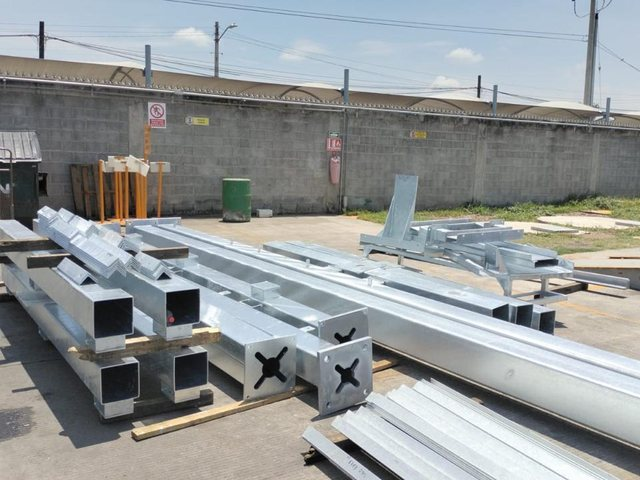
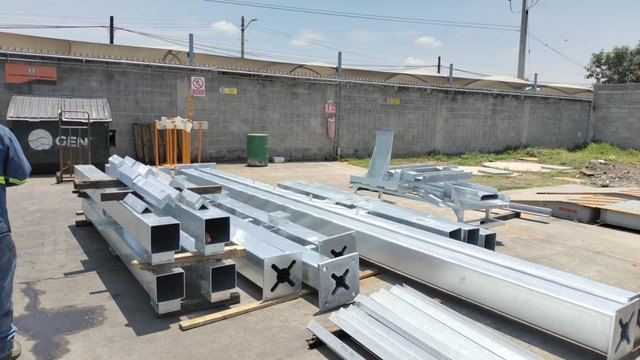
SET Structure photo: store the FULL uncropped frame. The 4:3 variant was cover-cropping ~25% off the sides; the tile uses object-fit:cover so the crop was never needed in the file.

diff --git a/data.js b/data.js
@@ -119,7 +119,7 @@ window.MURCH_DATA = {
  { title: 'Commissioning', metric: 'MC Sep 25 \u00b7 PIS Oct 16', note: 'Energization, start-up, PR test, punch, COD.' }
  ],
  photos: [
- { src: 'https://claped71.github.io/murch-dashboard/assets/recent/thumb-recent-52.jpg?v=20260810-set-steel', fallbackSrc: 'https://claped71.github.io/murch-dashboard/assets/recent/recent-52.jpg', date: 'August 10, 2026', title: 'SET Structure.', note: 'Substation structural steel fabricated and hot-dip galvanized at the fabricator\u2019s yard in Le\u00f3n \u2014 box sections, cross-braced base plates and the 34.5 kV members. This is the consignment Axel Cano has been holding: it ships Monday Aug 10 for site on <strong>Saturday Aug 15</strong>. Structural is 10.8% and is the binding item on the substation, so this steel arriving is what lets erection start. The Polesa poles (Sep 4, rejected) are not in this load.' },
+ { src: 'https://claped71.github.io/murch-dashboard/assets/recent/thumb-recent-52.jpg?v=20260810-set-steel-full', fallbackSrc: 'https://claped71.github.io/murch-dashboard/assets/recent/recent-52.jpg', date: 'August 10, 2026', title: 'SET Structure.', note: 'Substation structural steel fabricated and hot-dip galvanized at the fabricator\u2019s yard in Le\u00f3n \u2014 box sections, cross-braced base plates and the 34.5 kV members. This is the consignment Axel Cano has been holding: it ships Monday Aug 10 for site on <strong>Saturday Aug 15</strong>. Structural is 10.8% and is the binding item on the substation, so this steel arriving is what lets erection start. The Polesa poles (Sep 4, rejected) are not in this load.' },
  { src: 'https://claped71.github.io/murch-dashboard/assets/recent/thumb-recent-46.jpg?v=20260807-aug3-aerials', fallbackSrc: 'https://claped71.github.io/murch-dashboard/assets/recent/recent-46.jpg', date: 'August 3, 2026', title: 'Aerial overview — moduled blocks north, racking advancing south', note: 'Aug 3 drone survey, high altitude: fully moduled blocks on the northern areas, bare tracker rows advancing across the southern fronts, with the basins and perimeter road visible. The frame captures the whole mechanical sequence in one view — piles, racking and modules each at a different stage per area.' },
  { src: 'https://claped71.github.io/murch-dashboard/assets/recent/thumb-recent-49.jpg?v=20260807-aug3-aerials', fallbackSrc: 'https://claped71.github.io/murch-dashboard/assets/recent/recent-49.jpg', date: 'August 3, 2026', title: 'Final inverter/PCS stations set — 23 of 23 closed Aug 3', note: 'Aug 3, 10:47: crane lowering one of the last inverter/PCS stations onto its welded pile foundation, with the laydown yard, cable reels and site offices behind. This is the day the station fleet closed at 23 of 23 set and welded — all now pending LV and MV terminations.' },
  { src: 'https://claped71.github.io/murch-dashboard/assets/recent/thumb-recent-47.jpg?v=20260807-aug3-aerials', fallbackSrc: 'https://claped71.github.io/murch-dashboard/assets/recent/recent-47.jpg', date: 'August 3, 2026', title: 'Block fully moduled edge to edge', note: 'Aug 3 drone survey: a complete block moduled edge to edge, with pallets staged on the access road for the neighbouring rows. The module front follows the QA-released tracker rows — the visual of what every remaining zone is being driven towards before the Sep 6 module gate.' },

diff --git a/index.html b/index.html
@@ -2372,7 +2372,7 @@ canvas { max-width: 100%; }
       <p>Sources: Live NWS weather for Lawrence, Michigan; the <strong>Aug 10 on-site headcount board</strong> (Bethany Valdez, 244); the <strong>Week 31 civil report</strong> (Rosario Ruiz, issued Aug 10 on the Aug 7 basis) for the basin, fence and the four substation civil lines; the <strong>GameChange thread of Aug 10</strong> (Shreeya Devkota) for the purlin jig purchase order, the POD backlog and the outstanding pile count; the <strong>Inverter Foundations thread</strong> (Audelio Zuniga Aug 7, Michael Bogie of Heelstone Aug 8) for the Sungrow confirmation the Owner requires; the <strong>Chemik shipment thread of Aug 10</strong>; the racking area division issued by Manuel Ramirez to ECCS on Aug 8, which is the authority for the contractor row split and the module zone scopes (a LARGE row is 14 piles and 78 modules, MEDIUM 10 and 52, SMALL 6 and 26, reconciling to 171,470 modules exactly); the module WEST/EAST division from Manuel and Luis Romero; the Aug 8 DELIVERY AND MECHANICAL workbook, whose roll-up stands at 28,713 and still lags the field in Zones B, D and E, so the 29,586 executed basis is the per-zone reconciliation; and the Aug 7 and Aug 8 WhatsApp field logs for the last reported production. <strong>No field production was reported for Aug 10 at the time of this cut</strong> &mdash; the production basis remains Aug 8 EOD. WhatsApp timestamps are Michigan Eastern time. No economic values are published on this dashboard.</p>
     </footer>
 
-    <script src="data.js?v=20260810l"></script>
+    <script src="data.js?v=20260810m"></script>
     <script>
 'use strict';
 
